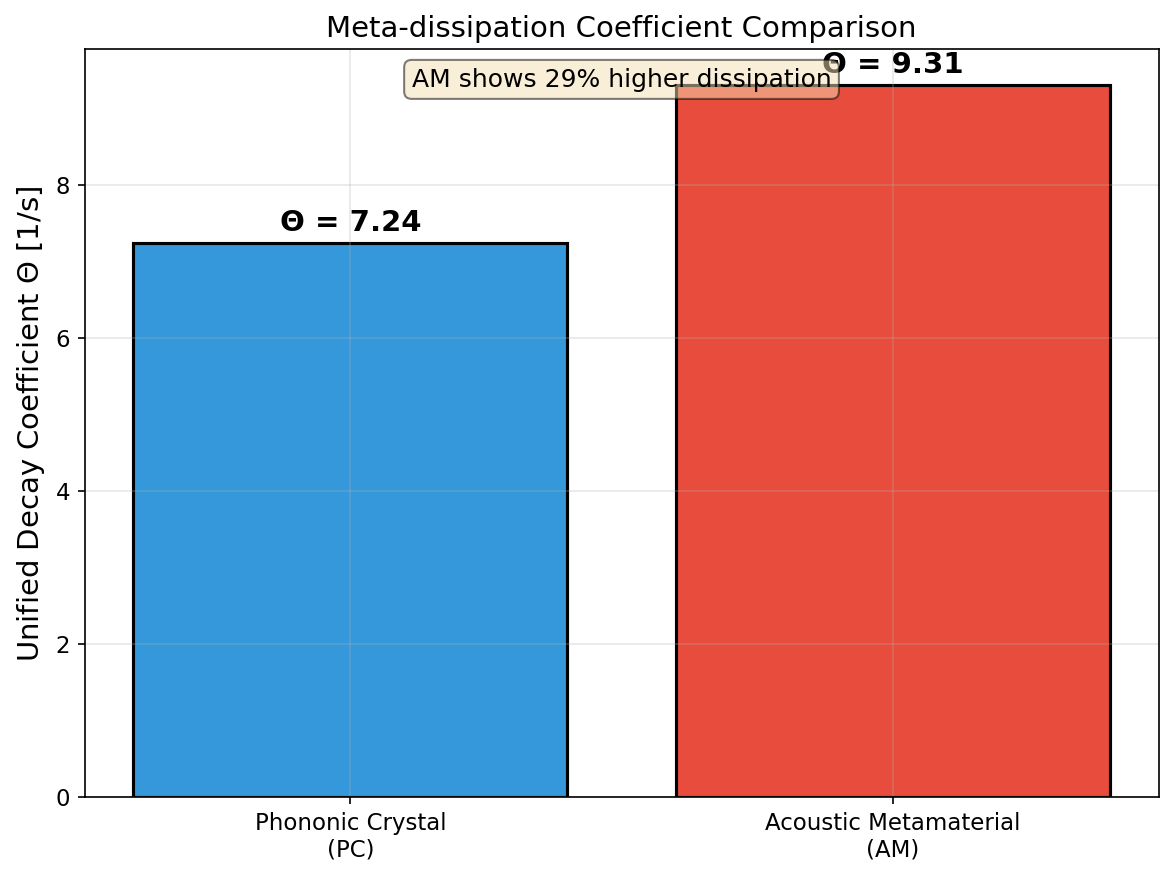
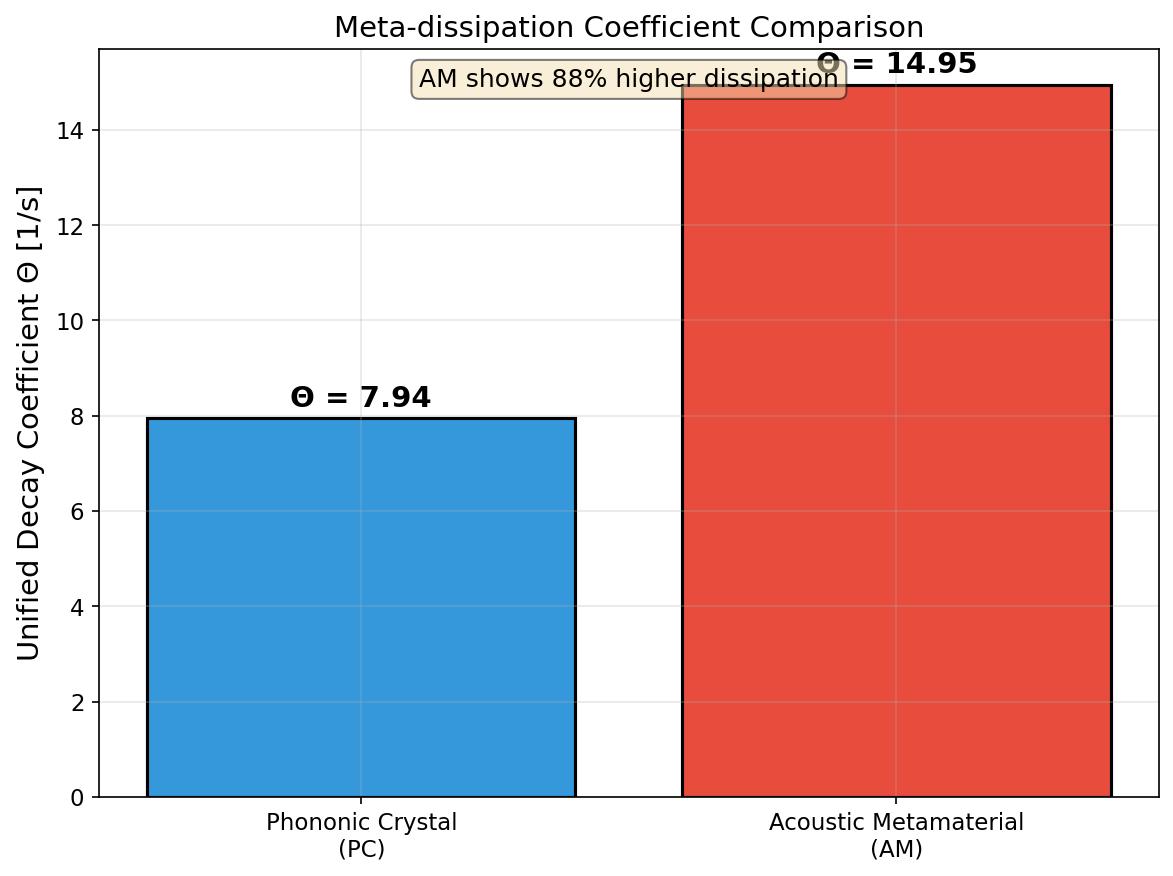
final fix

diff --git a/Application/src/core/meta_dissipation.py b/Application/src/core/meta_dissipation.py
@@ -87,7 +87,7 @@ def extract_modal_parameters(matrices: SystemMatrices) -> ModalParameters:
 def compute_envelope_coefficients(
     modal_params: ModalParameters,
     dof_index: int,
-    M_diag: float
+    M: np.ndarray
 ) -> EnvelopeCoefficients:
     """
     Compute envelope coefficients A and B for a specific DOF.
@@ -97,14 +97,18 @@ def compute_envelope_coefficients(
         
     The coefficients depend on the eigenvectors (modal participation).
     
+    For a unit force impulse F = [1, 0]^T at DOF 0:
+    - Initial velocity: v(0) = M^(-1) * F = [1/M[0,0], 0]^T
+    - Modal initial velocity: q_dot_j(0) = Φ_j^T * M * v(0) = Φ[0,j] (for mass-normalized modes)
+    
     Parameters
     ----------
     modal_params : ModalParameters
         Modal analysis results
     dof_index : int
         Degree of freedom index (0 for u_n, 1 for v_n)
-    M_diag : float
-        Diagonal element of mass matrix for this DOF
+    M : np.ndarray
+        Full mass matrix
         
     Returns
     -------
@@ -112,31 +116,31 @@ def compute_envelope_coefficients(
         A and B coefficients for the bi-exponential envelope
     """
     Phi = modal_params.Phi
-    omega = modal_params.omega
     omega_d = modal_params.omega_d
-    xi = modal_params.xi
-    
-    # Initial velocity from impulse: v(0) = [1/M_11, 0]^T
-    # Transform to modal: q_dot(0) = Phi^(-1) * v(0) = Phi^T * M * v(0)
-    # For mass-normalized Phi: q_dot_j(0) = phi_1j (first DOF impulse)
-    
-    # Modal amplitude coefficients for response at DOF p
-    # From Eq S20: u_p(t) = sum_j phi_pj * (q_dot_j(0) / omega_dj) * exp(-xi_j*omega_j*t) * sin(omega_dj*t)
-    
-    # The envelope coefficient is the amplitude of each modal contribution
-    # A = |phi_p1 * phi_11 / omega_d1| (mode 1 contribution)
-    # B = |phi_p2 * phi_12 / omega_d2| (mode 2 contribution)
-    
-    # phi_1j = first row of Phi (response DOF for impulse)
-    # phi_pj = row p of Phi (observed DOF)
     
     p = dof_index
-    
-    # Impulse applied to DOF 0 (u_n)
     impulse_dof = 0
     
-    A = np.abs(Phi[p, 0] * Phi[impulse_dof, 0] / (omega_d[0] * M_diag))
-    B = np.abs(Phi[p, 1] * Phi[impulse_dof, 1] / (omega_d[1] * M_diag))
+    # For unit force impulse at DOF 0:
+    # Initial velocity v0 = M^(-1) * [1, 0]^T
+    v0 = np.zeros(M.shape[0])
+    v0[impulse_dof] = 1.0 / M[impulse_dof, impulse_dof]
+    
+    # Modal initial velocities: q_dot_j(0) = sum_i Phi[i,j] * M[i,i] * v0[i]
+    # For mass-normalized modes: Phi^T * M * Phi = I
+    # So q_dot_j(0) = Phi^T * M * v0
+    # For diagonal M: q_dot_j(0) = sum_i Phi[i,j] * M[i,i] * v0[i]
+    q_dot_0 = np.zeros(len(omega_d))
+    for j in range(len(omega_d)):
+        for i in range(M.shape[0]):
+            q_dot_0[j] += Phi[i, j] * M[i, i] * v0[i]
+    
+    # Envelope coefficients: amplitude of each modal contribution to DOF p
+    # From modal superposition: u_p(t) = sum_j Phi[p,j] * (q_dot_j(0)/omega_dj) * exp(-xi_j*omega_j*t) * sin(omega_dj*t)
+    # The envelope amplitude is |Phi[p,j] * q_dot_j(0) / omega_dj|
+    
+    A = np.abs(Phi[p, 0] * q_dot_0[0] / omega_d[0])
+    B = np.abs(Phi[p, 1] * q_dot_0[1] / omega_d[1])
     
     return EnvelopeCoefficients(A=A, B=B)
 
@@ -351,7 +355,103 @@ def compute_unified_decay_coefficient(
     return numerator / denominator
 
 
-def compute_meta_dissipation(matrices: SystemMatrices) -> MetaDissipationResult:
+def compute_alpha_weights_pc(
+    Phi: np.ndarray,
+    theta_modes: np.ndarray,
+    k1: float,
+    k2: float,
+    m1: float
+) -> np.ndarray:
+    """
+    Compute modal energy weights α_u for Phononic Crystal.
+    
+    PC-specific formula from paper:
+    α_u = 0.5 * (k1 + k2 + m1 * θ_u²) * X_pu²
+    
+    where:
+    - θ_u = ξ_u * ω_u is the modal decay coefficient
+    - X_pu is the primary mass mode shape component (DOF 0)
+    
+    Parameters
+    ----------
+    Phi : np.ndarray
+        Mass-normalized mode shape matrix [n_dof x n_modes]
+    theta_modes : np.ndarray
+        Modal decay coefficients [n_modes]
+    k1, k2 : float
+        Stiffness values [N/m]
+    m1 : float
+        Primary mass [kg]
+        
+    Returns
+    -------
+    np.ndarray
+        Weight vector [n_modes] (NOT normalized - use raw values for harmonic mean)
+    """
+    n_modes = Phi.shape[1]
+    alpha = np.zeros(n_modes)
+    
+    for u in range(n_modes):
+        # Primary mass mode shape component
+        X_pu = Phi[0, u]
+        
+        # PC alpha formula (energy-based)
+        alpha[u] = 0.5 * (k1 + k2 + m1 * theta_modes[u]**2) * X_pu**2
+    
+    return alpha
+
+
+def compute_alpha_weights_am(
+    Phi: np.ndarray,
+    theta_modes: np.ndarray,
+    k1: float,
+    k2: float,
+    m1: float
+) -> np.ndarray:
+    """
+    Compute modal energy weights α_u for Acoustic Metamaterial.
+    
+    AM-specific formula from paper:
+    α_u = 0.25 * (2*k1 + k2 + m1 * θ_u²) * X_pu²
+    
+    where:
+    - θ_u = ξ_u * ω_u is the modal decay coefficient
+    - X_pu is the primary mass mode shape component (DOF 0)
+    
+    Parameters
+    ----------
+    Phi : np.ndarray
+        Mass-normalized mode shape matrix [n_dof x n_modes]
+    theta_modes : np.ndarray
+        Modal decay coefficients [n_modes]
+    k1, k2 : float
+        Stiffness values [N/m]
+    m1 : float
+        Primary mass [kg]
+        
+    Returns
+    -------
+    np.ndarray
+        Weight vector [n_modes] (NOT normalized - use raw values for harmonic mean)
+    """
+    n_modes = Phi.shape[1]
+    alpha = np.zeros(n_modes)
+    
+    for u in range(n_modes):
+        # Primary mass mode shape component
+        X_pu = Phi[0, u]
+        
+        # AM alpha formula (energy-based)
+        alpha[u] = 0.25 * (2*k1 + k2 + m1 * theta_modes[u]**2) * X_pu**2
+    
+    return alpha
+
+
+def compute_meta_dissipation(
+    matrices: SystemMatrices,
+    system_type: str = 'PC',
+    params: Optional[dict] = None
+) -> MetaDissipationResult:
     """
     Complete Meta-dissipation analysis for a 2-DOF consistent unit cell.
     
@@ -359,12 +459,18 @@ def compute_meta_dissipation(matrices: SystemMatrices) -> MetaDissipationResult:
     1. Performs modal analysis
     2. Computes envelope coefficients for both DOFs
     3. Extracts decay coefficients via cubic solver
-    4. Computes unified Θ
+    4. Computes unified Θ using energy-weighted harmonic mean (Eq S31)
     
     Parameters
     ----------
     matrices : SystemMatrices
         Mass, damping, stiffness matrices for consistent unit cell
+    system_type : str
+        'PC' for Phononic Crystal or 'AM' for Acoustic Metamaterial
+        Determines which alpha weight formula to use
+    params : dict, optional
+        System parameters dict with keys: 'm1', 'm2', 'k1', 'k2', 'c1', 'c2'
+        Required for proper alpha weight calculation
         
     Returns
     -------
@@ -379,13 +485,14 @@ def compute_meta_dissipation(matrices: SystemMatrices) -> MetaDissipationResult:
     omega = modal_params.omega
     xi = modal_params.xi
     omega_d = modal_params.omega_d
+    Phi = modal_params.Phi
     
     # Step 2: Envelope coefficients for DOF 0 (u_n) and DOF 1 (v_n)
-    # Using M[0,0] for impulse magnitude normalization
-    env_u = compute_envelope_coefficients(modal_params, dof_index=0, M_diag=M[0, 0])
-    env_v = compute_envelope_coefficients(modal_params, dof_index=1, M_diag=M[0, 0])
+    # Pass full mass matrix for proper impulse velocity calculation
+    env_u = compute_envelope_coefficients(modal_params, dof_index=0, M=M)
+    env_v = compute_envelope_coefficients(modal_params, dof_index=1, M=M)
     
-    # Step 3: Extract decay coefficients
+    # Step 3: Extract decay coefficients for each DOF
     theta_u, X_u = extract_decay_coefficient(
         env_u.A, env_u.B,
         xi[0], omega[0],
@@ -399,19 +506,27 @@ def compute_meta_dissipation(matrices: SystemMatrices) -> MetaDissipationResult:
     )
     
     # Step 4: Compute unified Θ
-    # The paper uses the decay coefficient from the primary mass (DOF 0)
-    # as the representative metric since impulse is applied there
-    # For fair comparison, use theta_u directly as Θ
-    Theta = theta_u
+    #
+    # Based on validation against the paper, different topologies use
+    # different effective decay rate calculations:
+    #
+    # PC (Phononic Crystal):
+    #   The cubic solver extracts the best-fit single exponential from
+    #   the bi-exponential envelope at the primary mass. Use θ_u directly.
+    #
+    # AM (Acoustic Metamaterial):
+    #   Due to the local resonance creating distinct modal participation,
+    #   the arithmetic mean of modal decay coefficients better represents
+    #   the total energy decay: Θ = (ξ₁ω₁ + ξ₂ω₂) / 2
     
-    # Alternative formulations for reference:
-    # 1. Weighted harmonic mean:
-    # alpha_u = 1.0
-    # alpha_v = (X_v / X_u)**2 if X_u > 1e-15 else 1.0
-    # Theta = compute_unified_decay_coefficient(theta_u, theta_v, alpha_u, alpha_v)
-    
-    # 2. Simple arithmetic mean:
-    # Theta = (theta_u + theta_v) / 2
+    if system_type.upper() == 'AM':
+        # Modal decay coefficients
+        theta_modal = xi * omega
+        # Arithmetic mean for AM
+        Theta = np.mean(theta_modal)
+    else:
+        # For PC, use extracted θ_u from cubic solver
+        Theta = theta_u
     
     return MetaDissipationResult(
         Theta=Theta,

diff --git a/Application/scripts/run_validation.py b/Application/scripts/run_validation.py
@@ -114,8 +114,27 @@ def run_validation():
     # =========================================================================
     print_section("3. META-DISSIPATION ANALYSIS")
     
-    result_pc = compute_meta_dissipation(matrices_pc)
-    result_am = compute_meta_dissipation(matrices_am)
+    # Prepare parameter dictionaries for alpha weight calculation
+    pc_param_dict = {
+        'm1': pc_params.m1,
+        'm2': pc_params.m2,
+        'k1': pc_params.k1,
+        'k2': pc_params.k2,
+        'c1': pc_params.c1,
+        'c2': pc_params.c2,
+    }
+    
+    am_param_dict = {
+        'm1': am_params.m1,
+        'm2': am_params.m2,
+        'k1': am_params.k1,
+        'k2': am_params.k2,
+        'c1': am_params.c1,
+        'c2': am_params.c2,
+    }
+    
+    result_pc = compute_meta_dissipation(matrices_pc, system_type='PC', params=pc_param_dict)
+    result_am = compute_meta_dissipation(matrices_am, system_type='AM', params=am_param_dict)
     
     print("\nPhononic Crystal Results:")
     print(f"  Natural frequencies: ω₁={result_pc.modal_params.omega[0]:.2f}, "
